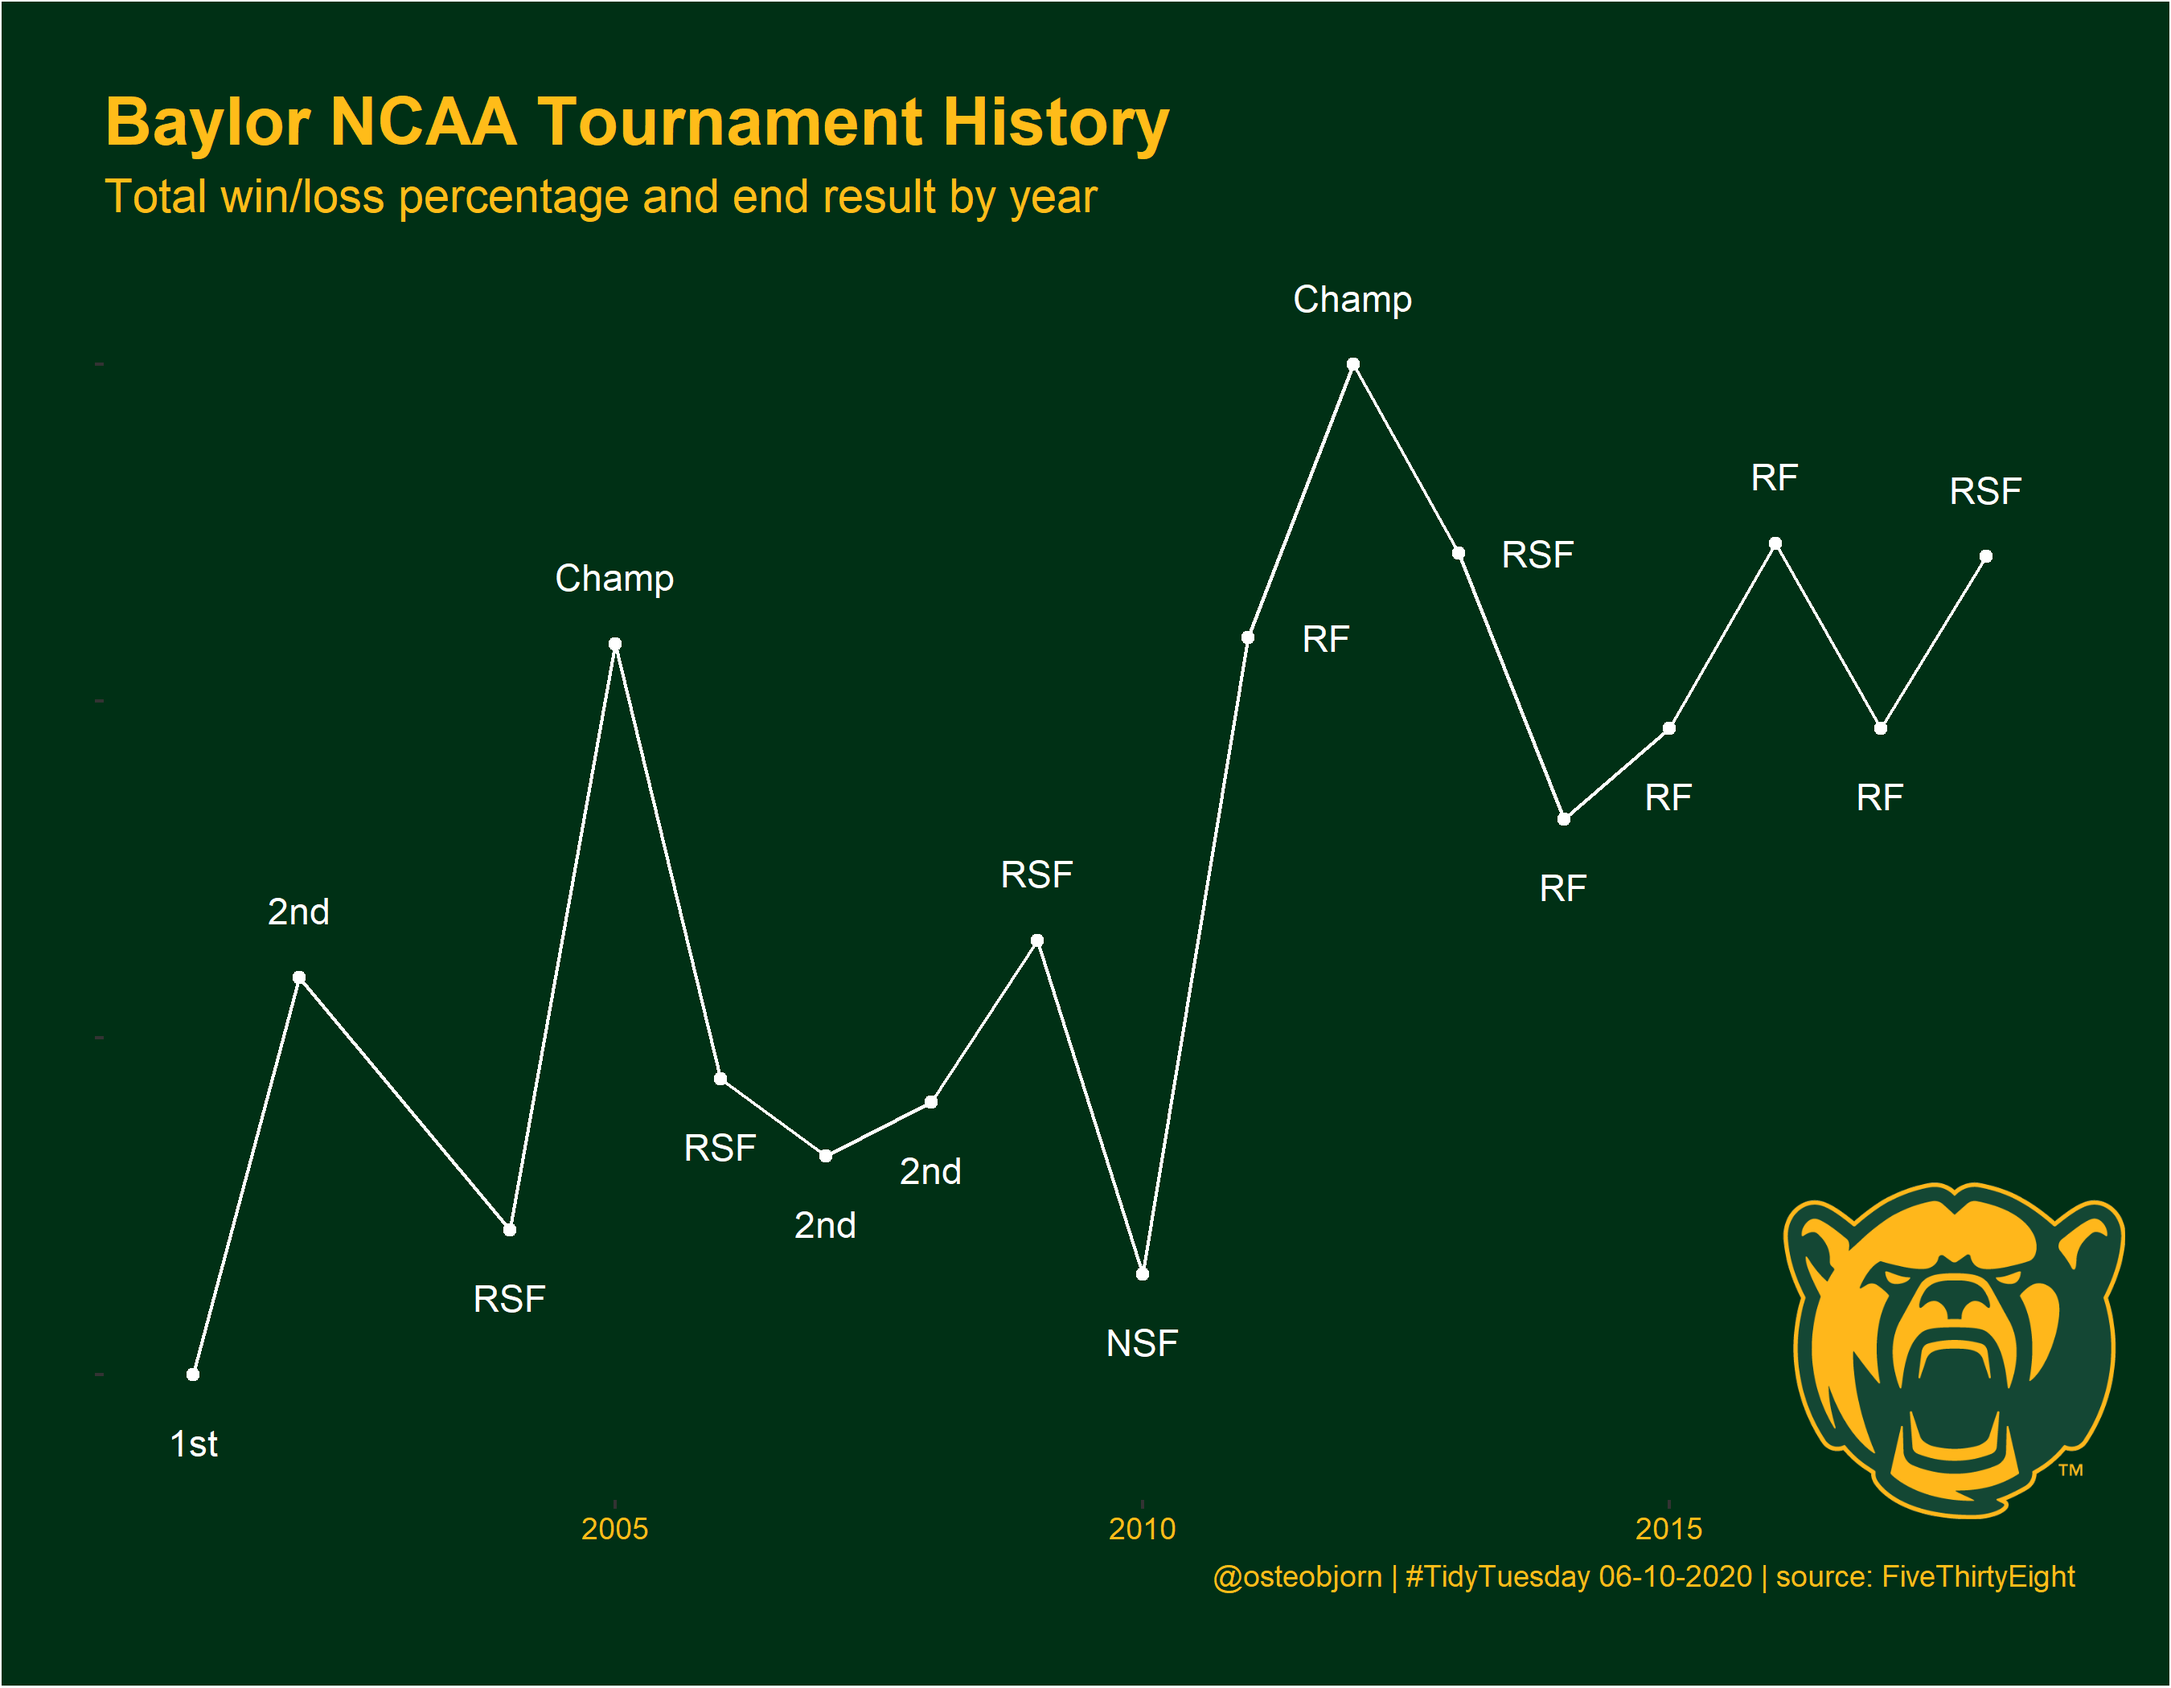
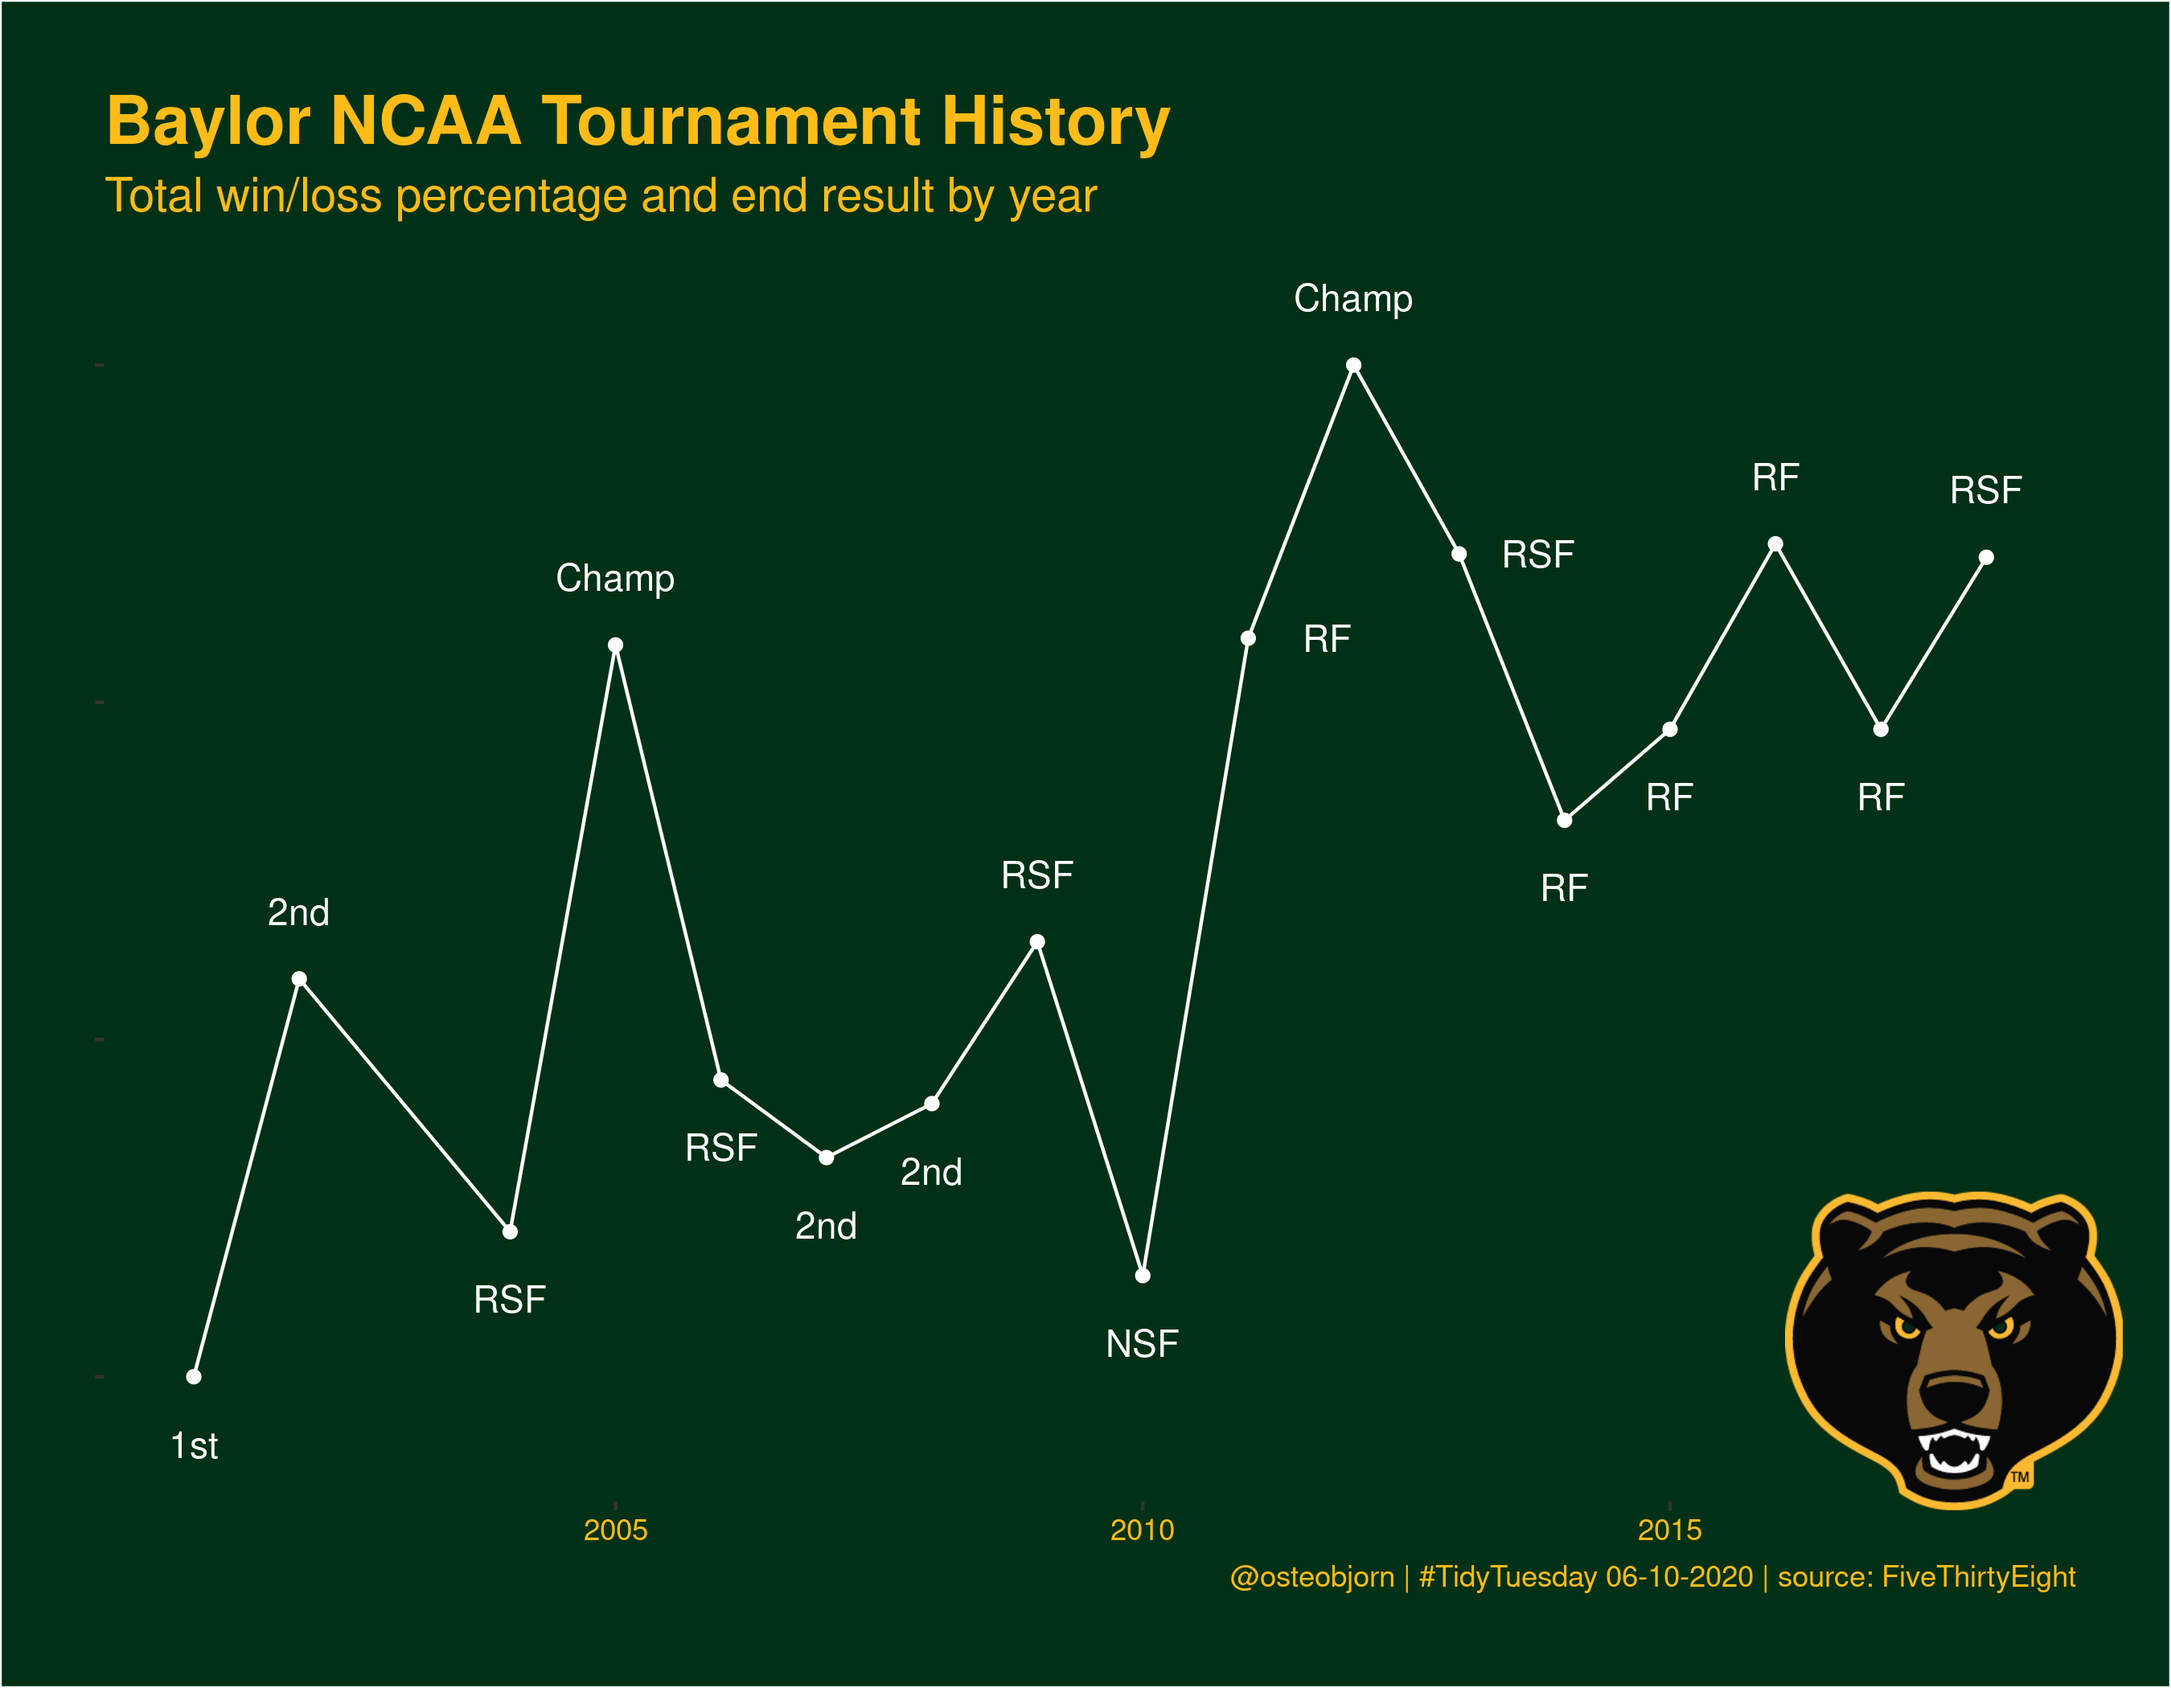
update tidy tuesday tutorial

diff --git a/content/post/tidytuesday/index.html b/content/post/tidytuesday/index.html
@@ -49,6 +49,7 @@ draft: false
 install.packages(&quot;tidyverse&quot;)
 install.packages(&quot;cowplot&quot;)
 install.packages(&quot;magick&quot;)
+install.packages(&quot;here&quot;)
 install.packages(&quot;tidytuesdayR&quot;) # if necessary</code></pre>
 </div>
 <div id="step-1-loading-required-packages-and-downloading-the-data" class="section level2">
@@ -207,11 +208,8 @@ tournament &lt;- data$tournament # store the data frame in a new variable</code>
 <p><img src="/post/tidytuesday/index_files/figure-html/plot8-1.png" width="672" /></p>
 <p>Feel free to play around with the colours, text size, font, etc.</p>
 <p>It still feels like something is missing… the main reason I chose Baylor was the cool logo (a legitimate reason for liking a team, right?). So, finally, we can place the logo on the plot. Admittedly, I was going for a watermark but reached the limit of my abilities (and time I could devote to this…), so if anyone knows how to do this, please let me know.</p>
-<p>Save the image:</p>
-<p><img src="/img/tidytues/logo1.png" /></p>
-<p>Upload the image (I have the logo stored in a folder called ‘img’);</p>
-<pre class="r"><code>img &lt;- here::here(&quot;img&quot;, &quot;logo1.png&quot;) %&gt;% # upload the Baylor logo
-  image_read()</code></pre>
+<p>Upload the image;</p>
+<pre class="r"><code>img &lt;- image_read(path = &quot;https://www.prepsportswear.com/media/images/college_logos/300x300/2626586_mktg_logo.png&quot;)  # upload the baylor logo</code></pre>
 <p>store the plot in a variable;</p>
 <pre class="r"><code>p &lt;- ggplot(baylor, aes(x = year, y = full_percent)) +
   geom_path(col = &quot;white&quot;) + 
